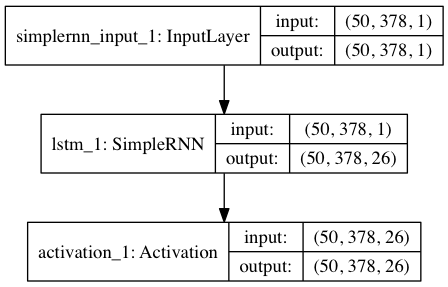
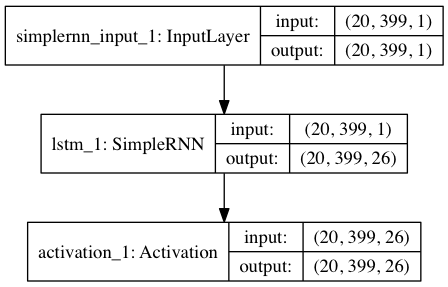
Dynamic handling of matrix dims

diff --git a/src/preprocessing/creators/term_creator.py b/src/preprocessing/creators/term_creator.py
@@ -5,7 +5,7 @@ import numpy as np
 
 from preprocessing.creators import AbstractCreator
 from preprocessing.handlers import TextCreator
-from utilities import Filesystem, unpickle_data
+from utilities import Config, Filesystem, unpickle_data
 
 
 class TermCreator(AbstractCreator):
@@ -16,15 +16,19 @@ class TermCreator(AbstractCreator):
         self.terms = []
 
     def create_sets(self):
-        for term in self.terms:
-            phrase_image = TextCreator.write(term)
+        data_set_size = len(self.terms)
+        for i in range(data_set_size):
+            if (i + 1) % Config.get('logging.batch_reporting') == 0:
+                self.log.info('Constructing image %s/%s.', i + 1, data_set_size)
+
+            phrase_image = TextCreator.write(self.terms[i])
             phrase_arr = np.fromiter(list(phrase_image.getdata()), dtype="int").reshape((phrase_image.height,
                                                                                          phrase_image.width))
 
             self.constraint_handler.calculate(phrase_arr)
 
             self.contents.append({
-                'text': term,
+                'text': self.terms[i],
                 'matrix': phrase_arr
             })
 

diff --git a/src/nets/lstm/rnn_predictor.py b/src/nets/lstm/rnn_predictor.py
@@ -8,7 +8,7 @@ from keras.optimizers import SGD
 from keras.utils.visualize_util import plot
 
 from nets.base import BasePredictor
-from utilities import Config, LoggerWrapper
+from utilities import Config, LoggerWrapper, MatrixDim
 
 
 class RNNPredictor(BasePredictor):
@@ -71,7 +71,7 @@ class RNNPredictor(BasePredictor):
         #                         dropout=0,
         #                         name="embedding_1"
         #                         ))
-        self.model.add(SimpleRNN(len(Config.get('general.characters')),
+        self.model.add(SimpleRNN(MatrixDim.get_size(),
                             dropout_W=0.0,
                             dropout_U=0.0,
                             name="lstm_1",

diff --git a/src/utilities/matrix_dim.py b/src/utilities/matrix_dim.py
@@ -1,0 +1,28 @@
+#!/usr/bin/env python
+# -*- coding: utf-8 -*-
+
+from utilities import Config, Filesystem, unpickle_data
+
+
+class MatrixDim:
+
+    UNIQUE_SIZE = None
+
+    def __init__(self):
+        pass
+
+    @staticmethod
+    def get_size():
+        if Config.get('preprocessing.unique-signatures'):
+            return MatrixDim.get_unique_size()
+
+        return len(Config.get('characters'))
+
+    @staticmethod
+    def get_unique_size():
+        if MatrixDim.UNIQUE_SIZE is None:
+            unique_data = unpickle_data(Filesystem.get_root_path('data/unique_signatures.pickl'))
+
+            MatrixDim.UNIQUE_SIZE = len(unique_data)
+
+        return MatrixDim.UNIQUE_SIZE

diff --git a/src/utilities/__init__.py b/src/utilities/__init__.py
@@ -1,7 +1,8 @@
-# Incorrect order due to import conflicts between filesystem and config
+# Incorrect order due to import conflicts between config, filesystem and matrixdim
 from .filesystem import Filesystem
 from .logger import LoggerWrapper
 from .config import Config
-from .character_handling import CharacterHandling
 from .pickler import pickle_data, unpickle_data
+from .matrix_dim import MatrixDim
+from .character_handling import CharacterHandling
 from .predictor_importer import PredictorImporter
